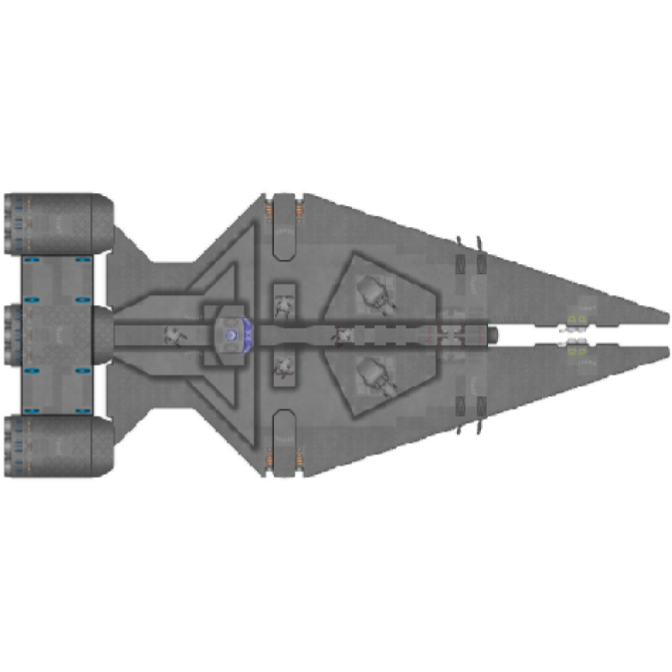
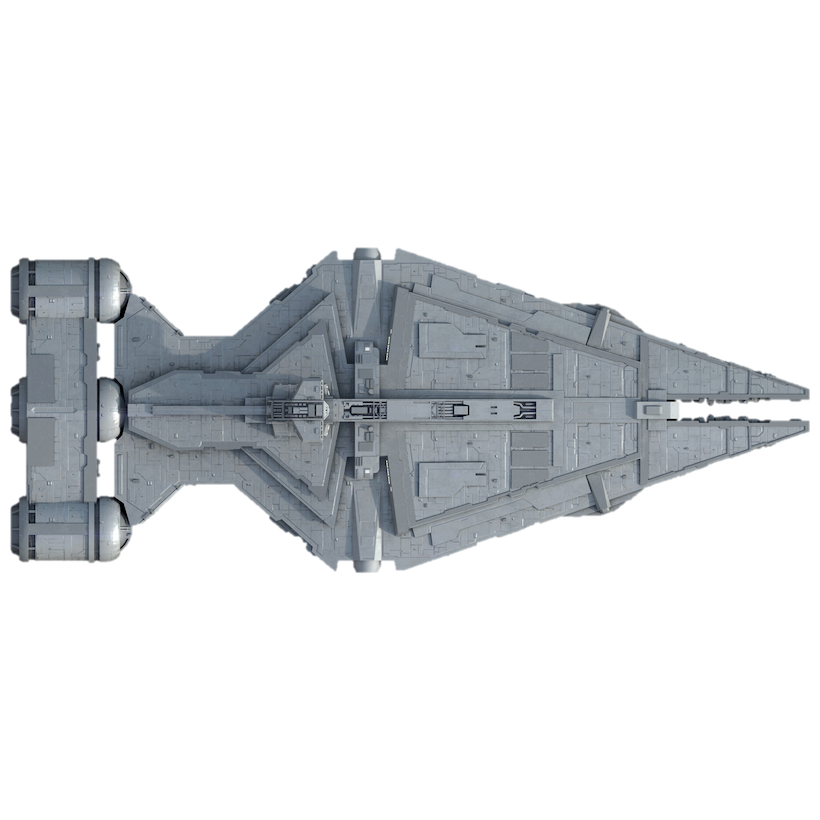
ssdf

Changed region(s): [[0.0, 0.2812, 1.0, 0.7188]]

diff --git a/server/lib/newShips/empire/heavyFrigate.js b/server/lib/newShips/empire/heavyFrigate.js
@@ -3,56 +3,106 @@ import * as weapons from "../../weapons.js";
 
 const ships = {};
 
+ships.ARQUITENS_EMPIRE = {
+    name: "Arquitens",
+    asset: "ARQUITENS.png",
+    classification: shipTypes.HeavyFrigate,
+    population: 4,
+    size: 220,
+    cost: 900,
+    speed: 5,
+    turnSpeed: .02,
+    shield: 1800,
+    shieldRegen: 2,
+    hardpoints: [{
+        x: -.225,
+        y: .275,
+        weapon: weapons.GREEN_DOUBLE_TURBOLASER_CANNON,
+        shotsAtOnce: 2,
+        shotDelay: 100
+    }, {
+        x: .225,
+        y: .275,
+        weapon: weapons.GREEN_DOUBLE_TURBOLASER_CANNON,
+        shotsAtOnce: 2,
+        shotDelay: 100
+    }, {
+        x: -.275,
+        y: -.125,
+        weapon: weapons.GREEN_DOUBLE_LASER_CANNON_HEAVY,
+        shotsAtOnce: 2,
+        shotDelay: 100
+    }, {
+        x: .275,
+        y: -.125,
+        weapon: weapons.GREEN_DOUBLE_LASER_CANNON_HEAVY,
+        shotsAtOnce: 2,
+        shotDelay: 100
+    }, {
+        x: 0,
+        y: .6,
+        weapon: weapons.ASSAULT_CONCUSSION_MISSILE,
+        shotsAtOnce: 3,
+        shotDelay: 100
+    }, {
+        x: 0,
+        y: 0,
+        weapon: weapons.DOUBLE_ION_CANNON_MEDIUM,
+        shotsAtOnce: 2,
+        shotDelay: 100
+    }]
+};
+
 ships.IMOBILIZER_EMPIRE = {
     name: "Imobilizer 418",
     asset: "IMOBILIZER.png",
     classification: shipTypes.HeavyFrigate,
     population: 12,
-    size: 225,
+    size: 340,
     cost: 2200,
     speed: 3,
     turnSpeed: .06,
-    shield: 2100,
-    shieldRegen: 3,
+    shield: 5500,
+    shieldRegen: 5,
     hardpoints: [{
-        x: -.15,
+        x: -.1,
         y: .275,
         weapon: weapons.GREEN_DOUBLE_TURBOLASER_CANNON,
-        shotsAtOnce: 2,
+        shotsAtOnce: 3,
         shotDelay: 80
     }, {
-        x: .15,
+        x: .1,
         y: .275,
         weapon: weapons.GREEN_DOUBLE_TURBOLASER_CANNON,
-        shotsAtOnce: 2,
+        shotsAtOnce: 3,
         shotDelay: 80
     }, {
-        x: -.25,
+        x: -.2,
         y: -.25,
         weapon: weapons.GREEN_DOUBLE_LASER_CANNON_HEAVY,
-        shotsAtOnce: 2,
+        shotsAtOnce: 3,
         shotDelay: 80
     }, {
-        x: .25,
+        x: .2,
         y: -.25,
         weapon: weapons.GREEN_DOUBLE_LASER_CANNON_HEAVY,
-        shotsAtOnce: 2,
+        shotsAtOnce: 3,
         shotDelay: 80
     }, {
-        x: -.4,
+        x: -.35,
         y: -.725,
         weapon: weapons.ION_CANNON_MEDIUM,
-        shotsAtOnce: 2,
+        shotsAtOnce: 3,
         shotDelay: 80
     }, {
-        x: .4,
+        x: .35,
         y: -.725,
         weapon: weapons.ION_CANNON_MEDIUM,
-        shotsAtOnce: 2,
+        shotsAtOnce: 3,
         shotDelay: 80
     }, {
         x: 0,
-        y: .8,
+        y: .75,
         weapon: weapons.ASSAULT_CONCUSSION_MISSILE,
         shotsAtOnce: 4,
         shotDelay: 100

diff --git a/server/lib/newShips/empire/frigate.js b/server/lib/newShips/empire/frigate.js
@@ -3,56 +3,6 @@ import * as weapons from "../../weapons.js";
 
 const ships = {};
 
-ships.ARQUITENS_EMPIRE = {
-    name: "Arquitens",
-    asset: "ARQUITENS.png",
-    classification: shipTypes.Frigate,
-    population: 4,
-    size: 120,
-    cost: 900,
-    speed: 8,
-    turnSpeed: .075,
-    shield: 1500,
-    shieldRegen: 2,
-    hardpoints: [{
-        x: -.225,
-        y: .275,
-        weapon: weapons.GREEN_DOUBLE_TURBOLASER_CANNON,
-        shotsAtOnce: 2,
-        shotDelay: 100
-    }, {
-        x: .225,
-        y: .275,
-        weapon: weapons.GREEN_DOUBLE_TURBOLASER_CANNON,
-        shotsAtOnce: 2,
-        shotDelay: 100
-    }, {
-        x: -.275,
-        y: -.125,
-        weapon: weapons.GREEN_DOUBLE_LASER_CANNON_HEAVY,
-        shotsAtOnce: 2,
-        shotDelay: 100
-    }, {
-        x: .275,
-        y: -.125,
-        weapon: weapons.GREEN_DOUBLE_LASER_CANNON_HEAVY,
-        shotsAtOnce: 2,
-        shotDelay: 100
-    }, {
-        x: 0,
-        y: .9,
-        weapon: weapons.ASSAULT_CONCUSSION_MISSILE,
-        shotsAtOnce: 3,
-        shotDelay: 100
-    }, {
-        x: 0,
-        y: 0,
-        weapon: weapons.DOUBLE_ION_CANNON_MEDIUM,
-        shotsAtOnce: 2,
-        shotDelay: 100
-    }]
-};
-
 ships.QUASAR_EMPIRE = {
     name: "Quasar",
     asset: "QUASAR.png",

diff --git a/server/index.js b/server/index.js
@@ -896,7 +896,8 @@ const empireFleet = {
     "CARRACK_EMPIRE": 0,
     "QUASAR_EMPIRE": 0,
     "AGGRESSORSTARDESTROYER_EMPIRE": 0,
-    "ARQUITENS_EMPIRE": 0,
+    "ARQUITENS_EMPIRE": 1,
+    "IMOBILIZER_EMPIRE": 1,
     "ARCHAMMER_EMPIRE": 0,
 
     "VENATOR_REPUBLIC": 0,
@@ -910,17 +911,17 @@ const empireFleet = {
     "ONAGER_DARKEMPIRE": 0,
     "ASSERTOR_DARKEMPIRE": 0,
     "BELLATOR_DARKEMPIRE": 0,
-    "MEGASTARDESTOYER_DARKEMPIRE": 1
+    "MEGASTARDESTOYER_DARKEMPIRE": 0
 };
 
 const rebelFleet = {
     "LUSANKYA_REBEL": 0,
     "STARHAWK_REBEL": 0,
-    "MC85_REBEL": 1,
+    "MC85_REBEL": 0,
     "MC75_REBEL": 0,
     "MC80A_REBEL": 0,
     "MC80BLIBERTY_REBEL": 0,
-    "MC50_REBEL": 0,
+    "MC50_REBEL": 1,
     "MC30C_REBEL": 0,
     "NEBULONB_REBEL": 0,
     "PELTA_REBEL": 0,

diff --git a/designer/imageResizer.html b/designer/imageResizer.html
@@ -7,7 +7,7 @@
 
 <body>
     <script>
-        const imageURL = "/assets/TOADD/aggressorstardestroyer.png";
+        const imageURL = "/assets/TOADD/arquitenscruiser.png";
 
         const canvas = document.createElement("canvas");
         const ctx = canvas.getContext("2d");
